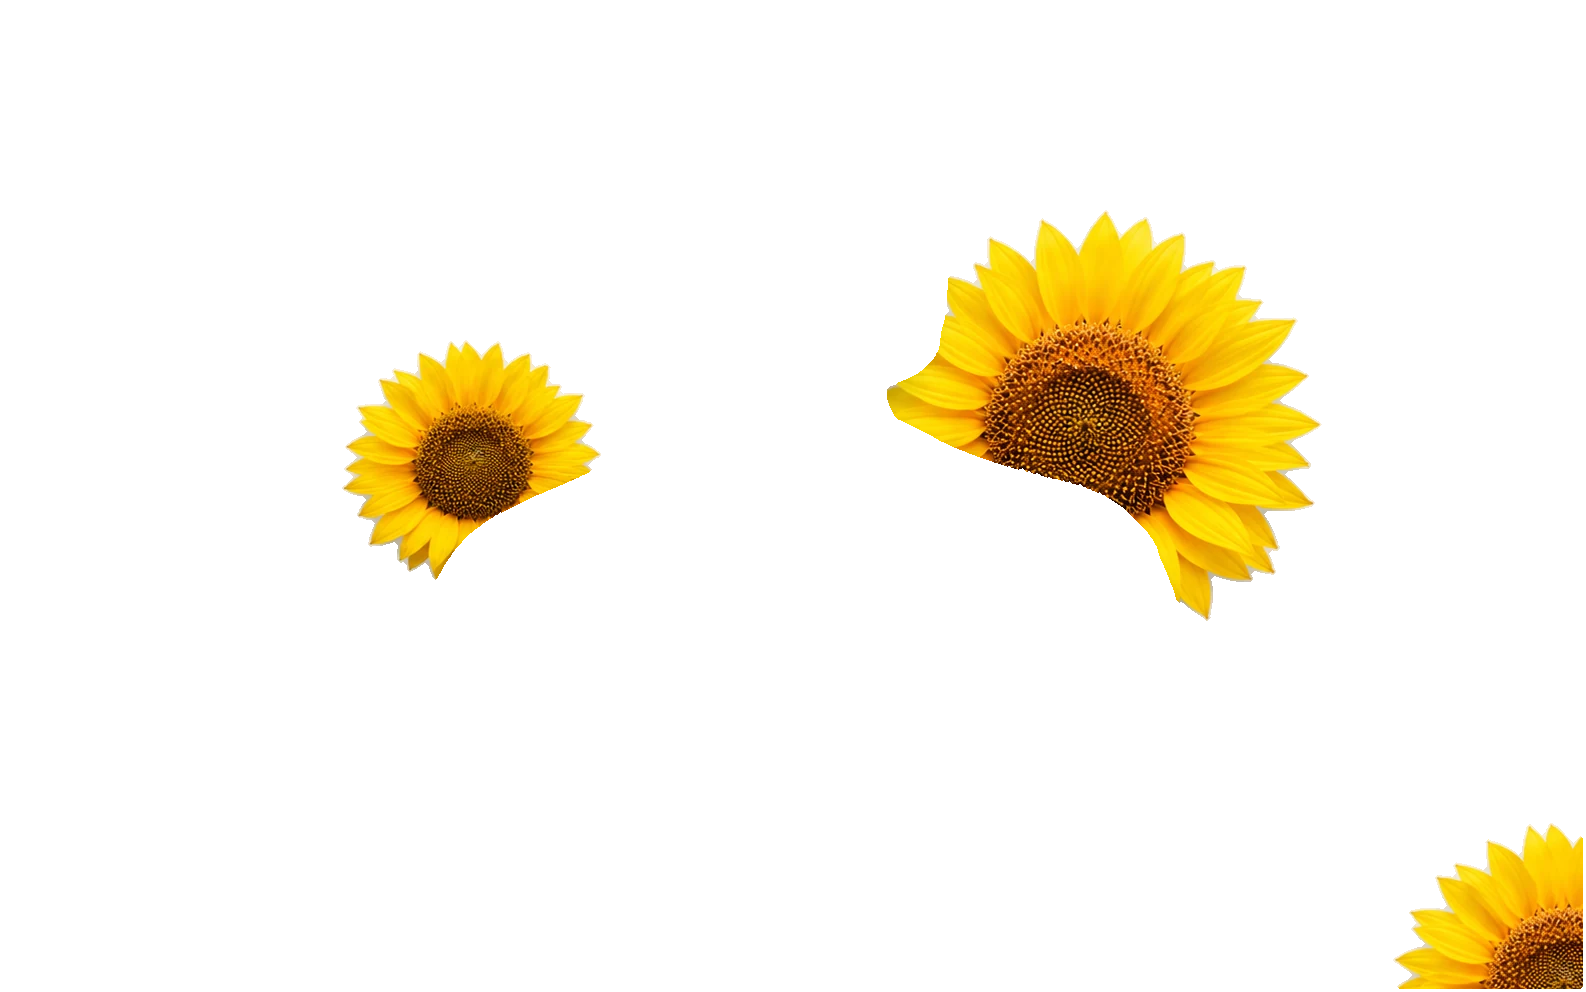
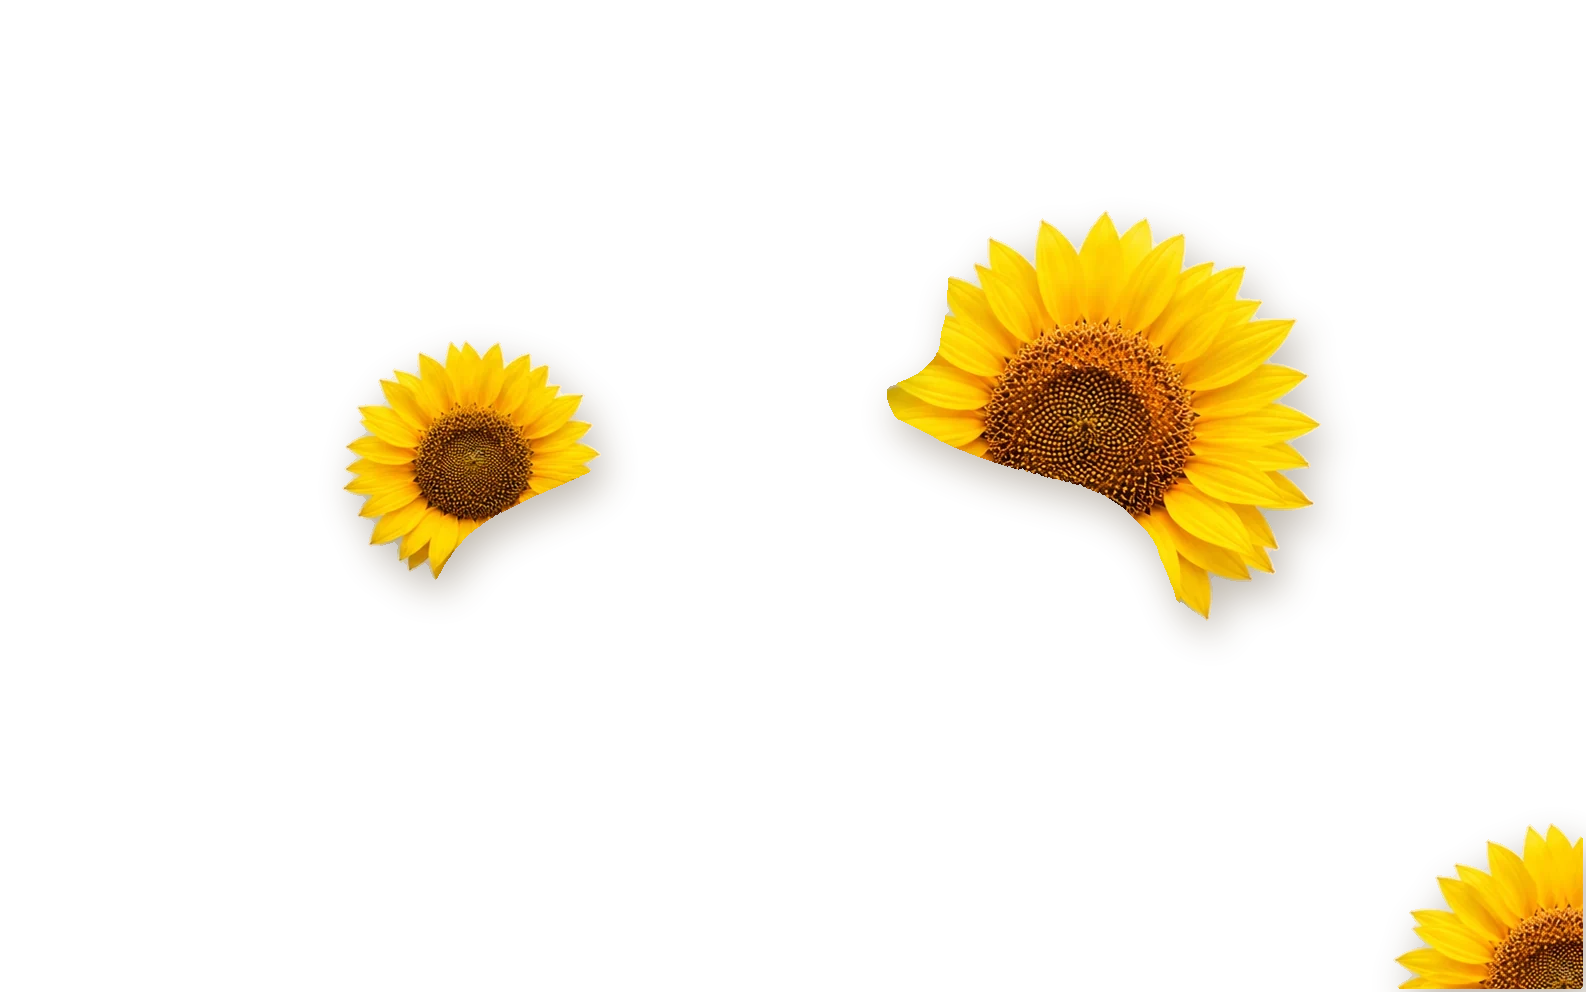
Pose-matched hero portrait (ChatGPT, Pratham angle) with baked shadow depth; services type scaled to his sizes + two-line heading; Motion-FX scrub on service/archive cards; archive blur blobs + floating folders; charsUp headings

diff --git a/styles.css b/styles.css
@@ -38,7 +38,7 @@ img{display:block;max-width:100%}
   -webkit-mask-image:linear-gradient(to bottom,#000 88%,transparent 99%);mask-image:linear-gradient(to bottom,#000 88%,transparent 99%)}
 .hl{position:absolute;inset:0;width:100%;height:100%}
 .hl-back{z-index:2}
-.hl-person{z-index:3;filter:drop-shadow(0 22px 28px rgba(74,46,10,.28))}
+.hl-person{z-index:3}
 .hl-front{z-index:4}
 .flower{position:absolute;overflow:visible;filter:drop-shadow(0 10px 14px rgba(74,46,10,.22))}
 .f-back-left{width:142px;left:16%;top:33%;z-index:2;animation:drift 7s ease-in-out infinite}
@@ -71,11 +71,12 @@ img{display:block;max-width:100%}
 .services{background:var(--cream);padding:90px 24px 130px;overflow:hidden}
 .section-title{font-weight:800;color:#111}
 .section-title.taupe{color:#8f8672;text-align:center;font-size:clamp(30px,4.6vw,54px)}
+.services .section-title{font-size:clamp(44px,6.2vw,76px);line-height:1.05;text-align:center}
 .section-title.huge{font-size:clamp(38px,6vw,76px);text-align:center}
 .fan{display:flex;justify-content:center;align-items:stretch;margin-top:64px;padding:0 10px}
-.svc-card{background:#111;border-radius:24px;width:250px;min-height:340px;display:flex;flex-direction:column;overflow:hidden;box-shadow:0 24px 48px rgba(0,0,0,.28);flex:none}
+.svc-card{background:#111;border-radius:24px;width:288px;min-height:392px;display:flex;flex-direction:column;overflow:hidden;box-shadow:0 24px 48px rgba(0,0,0,.28);flex:none;will-change:transform}
 .svc-card .sphere{width:150px;height:150px;margin:44px auto 30px}
-.svc-band{margin-top:auto;color:#fff;font-weight:700;font-size:19px;line-height:1.3;text-align:center;padding:20px 12px 24px}
+.svc-band{margin-top:auto;color:#fff;font-weight:700;font-size:23px;line-height:1.3;text-align:center;padding:24px 14px 30px}
 .tilt-1{transform:rotate(-6deg) translateY(16px);z-index:1}
 .tilt-2{transform:rotate(-2deg);margin-left:-26px;z-index:2}
 .tilt-3{transform:rotate(2deg);margin-left:-26px;z-index:3}
@@ -91,6 +92,14 @@ img{display:block;max-width:100%}
 
 /* ---------- ARCHIVE ---------- */
 .archive{position:relative;background:#FBFAF7;padding:120px 24px 130px;overflow:hidden}
+.blob{position:absolute;border-radius:50%;filter:blur(70px);z-index:0;pointer-events:none;opacity:.55}
+.blob-a{width:480px;height:480px;background:#F5B81E;top:-120px;right:-100px;animation:blobFloat 13s ease-in-out infinite}
+.blob-b{width:420px;height:420px;background:#E8912D;bottom:-140px;left:-120px;animation:blobFloat 16s ease-in-out infinite reverse}
+@keyframes blobFloat{0%,100%{transform:translate(0,0) scale(1)}50%{transform:translate(-46px,38px) scale(1.12)}}
+.arch-folder{position:absolute;z-index:1;pointer-events:none;filter:drop-shadow(0 14px 18px rgba(0,0,0,.18))}
+.af-1{width:92px;top:120px;left:4%;rotate:-10deg}
+.af-2{width:70px;top:300px;right:5%;rotate:12deg}
+.af-3{width:80px;bottom:90px;left:6%;rotate:7deg}
 .watermark{position:absolute;top:36px;left:50%;transform:translateX(-50%);font-size:clamp(80px,15vw,215px);font-weight:800;line-height:.95;color:var(--watermark);text-align:center;z-index:0;user-select:none;white-space:nowrap}
 .archive-sub{position:relative;z-index:2;text-align:center;font-weight:600;color:#3c3c3c;letter-spacing:.35em;font-size:14px;margin-bottom:70px}
 .archive-row{position:relative;z-index:1;display:flex;justify-content:center;gap:26px;flex-wrap:wrap;max-width:1200px;margin:0 auto}
@@ -107,6 +116,8 @@ img{display:block;max-width:100%}
 .poster-small{font-size:10.5px;font-weight:600;letter-spacing:.14em;line-height:1.55;opacity:.85}
 .poster.arch{aspect-ratio:3/4.1;justify-content:flex-end}
 .poster.arch .poster-big{font-size:24px}
+.char{display:inline-block;transform:translateY(60%);opacity:0;transition:transform .7s cubic-bezier(.2,.7,.2,1),opacity .7s}
+.chars.in .char{transform:none;opacity:1}
 .poster-img{width:100%;height:100%;object-fit:cover;border-radius:18px;display:block}
 .panel-row img[src*="gillnet.png"]{object-position:50% 8%}
 .panel-row img[src*="tether.png"]{object-position:50% 78%}

diff --git a/script.js b/script.js
@@ -45,9 +45,8 @@ const paraGroups = [
   { sel: '.hl-person', speeds: [0.07] },
   { sel: '.hl-front', speeds: [0.20] },
   { sel: '.watermark', speeds: [0.07] },
-  { sel: '.arch-card', speeds: [0.05, -0.045, 0.07, -0.05, 0.04] },
-  { sel: '.svc-card', speeds: [0.030, -0.022, 0.022, -0.030] },
   { sel: '.folder', speeds: [0.10, -0.08, 0.12, -0.06] },
+  { sel: '.arch-folder', speeds: [0.13, -0.10, 0.16] },
   { sel: '.proj-giant', speeds: [0.06] },
   { sel: '.about-giant-white', speeds: [0.05] },
   { sel: '.footer-giant', speeds: [0.04] },
@@ -74,6 +73,62 @@ window.addEventListener('scroll', () => {
   if (!paraTick) { paraTick = true; requestAnimationFrame(updateParallax); }
 }, { passive: true });
 updateParallax();
+
+// Motion-FX style scrub — cards drift, rotate and scale tied to scroll position (like the reference site's Elementor Motion FX)
+const fxSvc = [...document.querySelectorAll('.svc-card')];
+const fxArch = [...document.querySelectorAll('.arch-card')];
+function progressOf(el) {
+  const r = el.getBoundingClientRect();
+  const vh = window.innerHeight;
+  return Math.min(1, Math.max(0, (vh - r.top) / (vh + r.height)));
+}
+let fxTick = false;
+function updateFx() {
+  if (window.innerWidth > 900) {
+    fxSvc.forEach(el => {
+      if (!el.closest('.view.active')) return;
+      const p = progressOf(el);
+      el.style.translate = '0 ' + ((0.5 - p) * 70).toFixed(1) + 'px';
+      el.style.rotate = ((0.5 - p) * 7).toFixed(2) + 'deg';
+    });
+  }
+  fxArch.forEach((el, i) => {
+    if (!el.closest('.view.active')) return;
+    const p = progressOf(el);
+    const dir = i % 2 === 0 ? 1 : -1;
+    el.style.translate = '0 ' + ((0.5 - p) * 110 * dir).toFixed(1) + 'px';
+    el.style.rotate = ((0.5 - p) * 6 * dir).toFixed(2) + 'deg';
+    el.style.scale = (0.94 + 0.06 * p).toFixed(3);
+  });
+  fxTick = false;
+}
+window.addEventListener('scroll', () => {
+  if (!fxTick) { fxTick = true; requestAnimationFrame(updateFx); }
+}, { passive: true });
+updateFx();
+
+// charsUp headings — split into chars, stagger up on reveal (like the reference)
+document.querySelectorAll('.chars').forEach(h => {
+  let idx = 0;
+  [...h.childNodes].forEach(node => {
+    if (node.nodeType === 3) {
+      const frag = document.createDocumentFragment();
+      [...node.textContent].forEach(ch => {
+        if (ch === ' ') { frag.appendChild(document.createTextNode(' ')); return; }
+        const s = document.createElement('span');
+        s.className = 'char';
+        s.textContent = ch;
+        s.style.transitionDelay = (idx++ * 35) + 'ms';
+        frag.appendChild(s);
+      });
+      h.replaceChild(frag, node);
+    }
+  });
+});
+const charObs = new IntersectionObserver(es => {
+  es.forEach(e => { if (e.isIntersecting) { e.target.classList.add('in'); charObs.unobserve(e.target); } });
+}, { threshold: 0.3 });
+document.querySelectorAll('.chars').forEach(h => charObs.observe(h));
 
 // Custom cursor — instant dot + smooth trailing ring (difference blend)
 const cursor = document.getElementById('cursor');

diff --git a/index.html b/index.html
@@ -91,7 +91,7 @@
 
   <!-- SERVICES -->
   <section class="services">
-    <h2 class="section-title taupe reveal">What I can Help you with?</h2>
+    <h2 class="section-title taupe reveal chars">What I can<br>Help you with?</h2>
     <div class="fan reveal">
       <article class="svc-card tilt-1">
         <svg class="sphere" viewBox="0 0 120 120">
@@ -153,7 +153,12 @@
 
   <!-- VISUAL ARCHIVE -->
   <section class="archive">
-    <h2 class="watermark parallax" data-speed="0.15">Visual<br>Archive</h2>
+    <div class="blob blob-a"></div>
+    <div class="blob blob-b"></div>
+    <svg class="arch-folder af-1" viewBox="0 0 100 80"><path d="M6 14 Q6 8 12 8 L34 8 L42 18 L88 18 Q94 18 94 24 L94 66 Q94 72 88 72 L12 72 Q6 72 6 66 Z" fill="#5B8DEF"/></svg>
+    <svg class="arch-folder af-2" viewBox="0 0 100 80"><path d="M6 14 Q6 8 12 8 L34 8 L42 18 L88 18 Q94 18 94 24 L94 66 Q94 72 88 72 L12 72 Q6 72 6 66 Z" fill="#F2A93B"/></svg>
+    <svg class="arch-folder af-3" viewBox="0 0 100 80"><path d="M6 14 Q6 8 12 8 L34 8 L42 18 L88 18 Q94 18 94 24 L94 66 Q94 72 88 72 L12 72 Q6 72 6 66 Z" fill="#7FB069"/></svg>
+    <h2 class="watermark parallax chars" data-speed="0.15">Visual<br>Archive</h2>
     <p class="archive-sub reveal">B E Y O N D &nbsp; T H E &nbsp; V I S U A L S</p>
     <div class="archive-row">
       <a class="arch-card off-1" href="https://spec-balloon.vercel.app" target="_blank" rel="noopener" data-hover>
